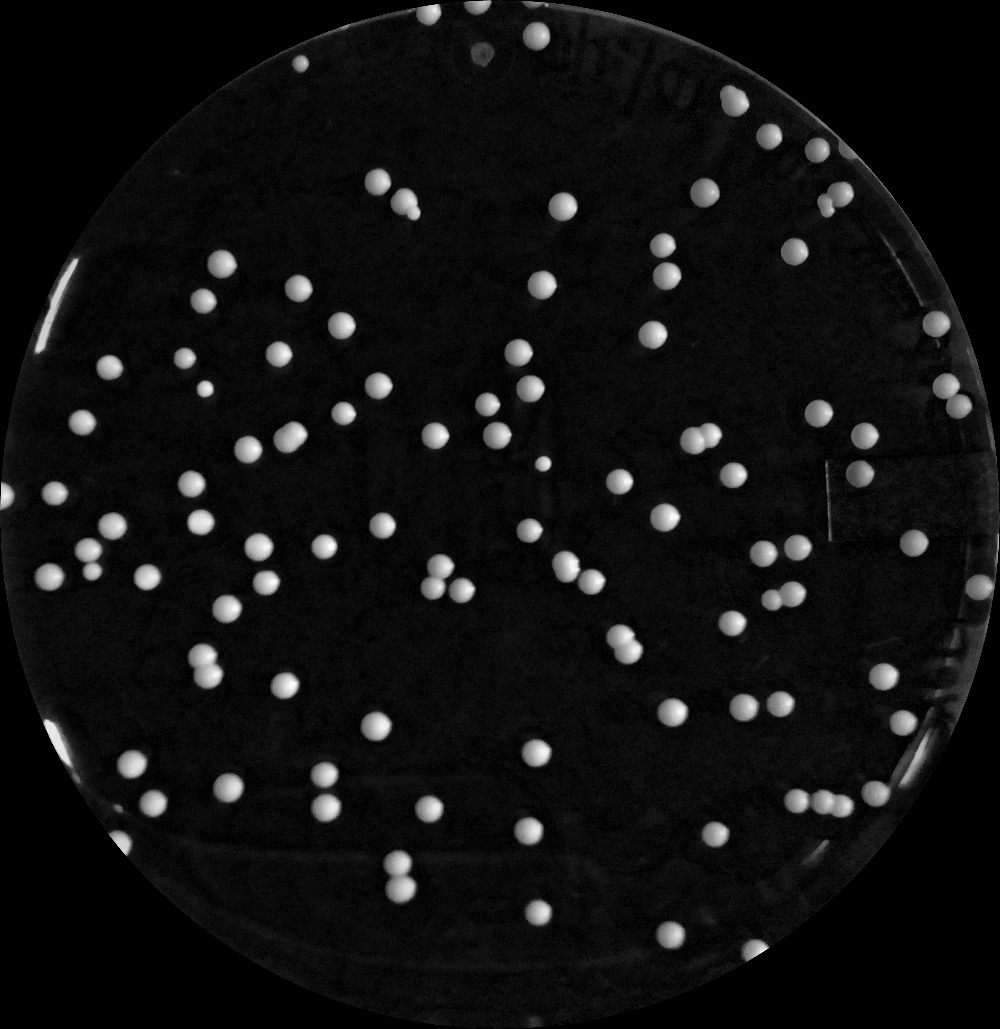
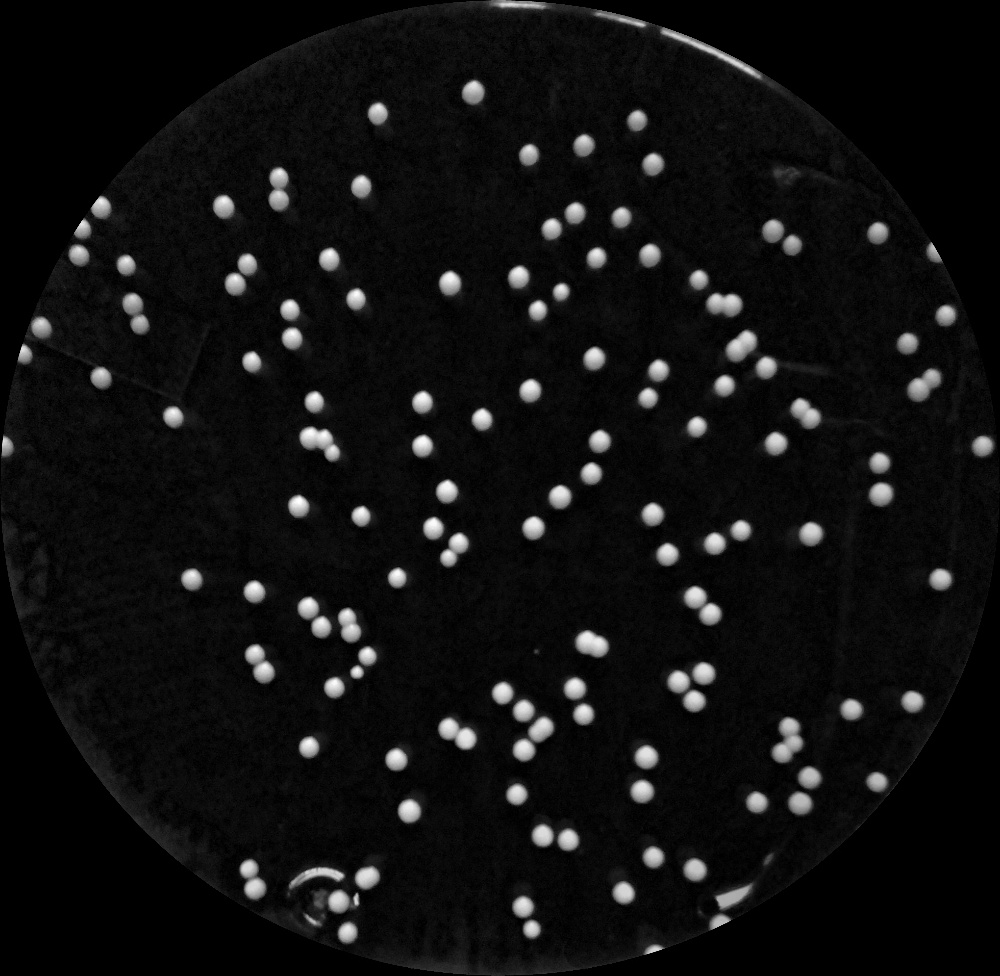
save

diff --git a/java/HelloCv.java b/java/HelloCv.java
@@ -19,7 +19,7 @@ public class HelloCv extends Test{
       try{
 
          System.loadLibrary( Core.NATIVE_LIBRARY_NAME );
-         Mat source = Highgui.imread("/Users/shashwat/Downloads/cropped images/300 min.jpg",  Highgui.CV_LOAD_IMAGE_COLOR);
+         Mat source = Highgui.imread("/Users/shashwat/Downloads/cropped images/RB 210 min.jpg",  Highgui.CV_LOAD_IMAGE_COLOR);
          source = Test.scaledResize(source, 1000);
          Mat destination = new Mat(source.rows(),source.cols(),source.type());
          Mat gray = new Mat(source.rows(), source.cols(), CvType.CV_8UC1);
